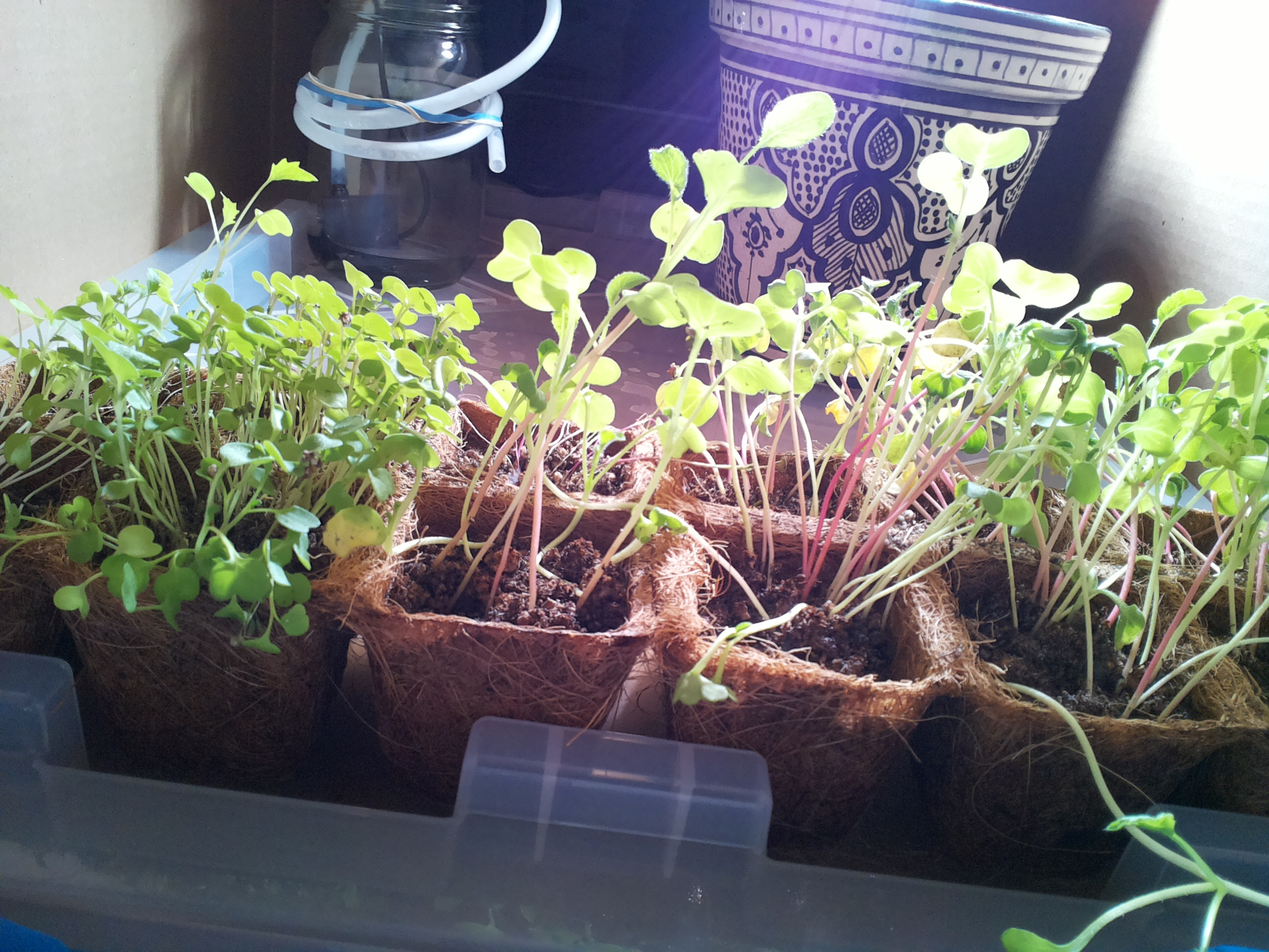
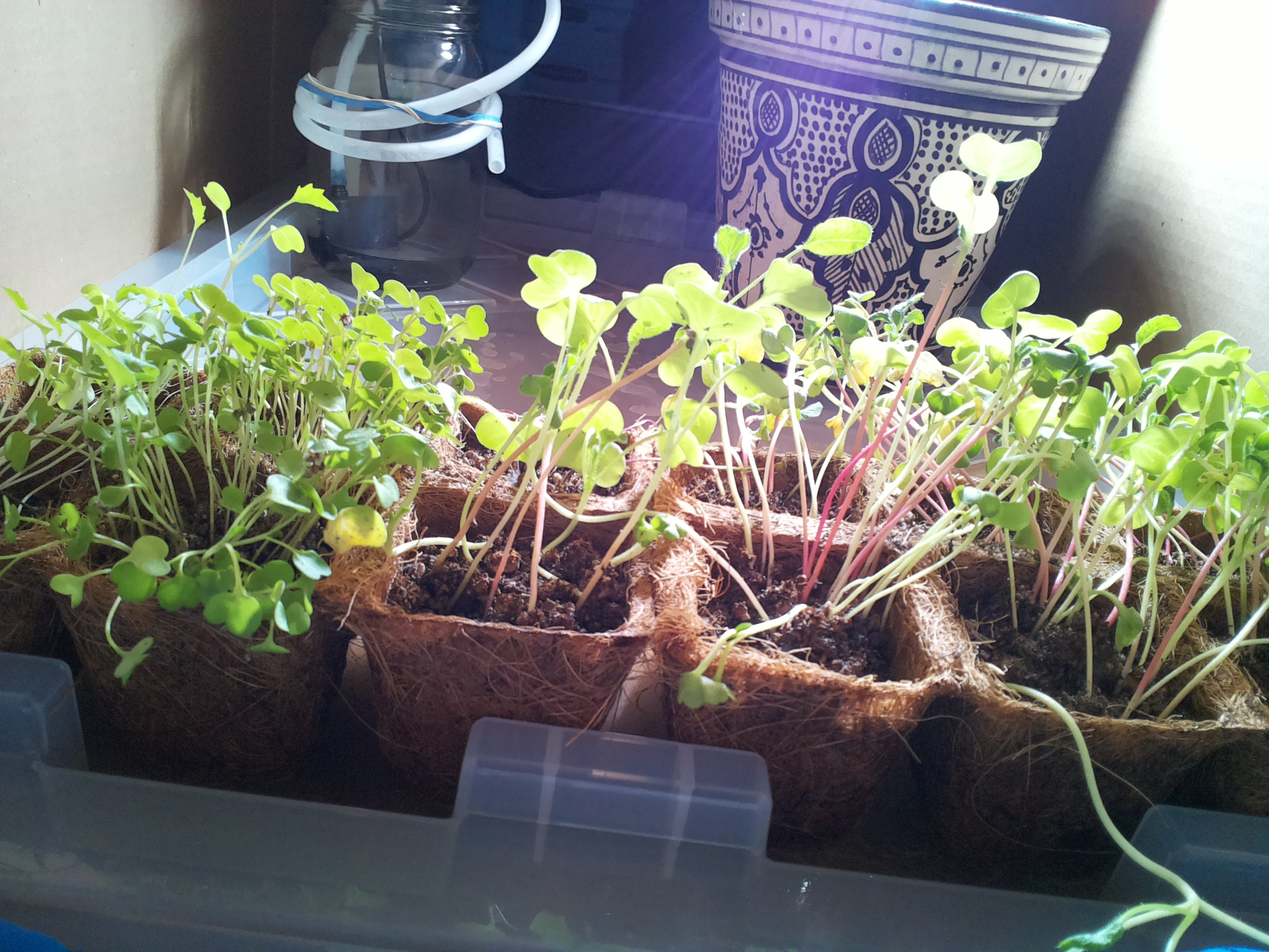
mirror sync 2026-09-12 13:10

Changed region(s): [[0.0, 0.0, 1.0, 1.0], [0.25, 0.0926, 0.4062, 0.1543], [0.2812, 0.0, 0.375, 0.0617]]

diff --git a/JOURNAL.md b/JOURNAL.md
@@ -435,3 +435,11 @@
 - Lamp: on — correct for photoperiod.
 - Watering: 4s pulse per standing order 2 (4s of 60s daily cap used; water.py OK, pump plug verified OFF after).
 - No changes to standing orders. Next: 13:07 observe-only; 19:22 pulse unless surfaces look dark. Still pending: verify lamp-sync.sh fires in logs/cron.log after the next reboot.
+
+### 2026-09-12 13:07 — midday check-in (cron, observe only)
+- Photo: seedlings vigorous in all 12 cells (day 19) — tall, leggy, cotyledons broad, turgid, and green; true leaves growing with fine hairs visible; pink stems on several (brassica-like, normal). A few yellowing older cotyledons in the middle cells (normal as true leaves take over). No wilting, mold, pests, or tipping. Tube outlet in place beside the jar over the lid (confirmed in zoom).
+- Jar: zoomed photo shows dark water through the visible glass body up near the neck — refill holding, pump body well covered.
+- Soil: visible cell surfaces dark/damp in the centers where not hidden by foliage; some drier crumbly spots; coir walls pale as usual. No dry-down alarm since the morning pulse. Bright sunlight patch across the tray.
+- Lamp: on — correct for photoperiod.
+- Watering: none (observe-only per standing order 2); 4s of 60s daily cap used. Evening 19:22 pulse planned unless surfaces look dark.
+- No changes to standing orders. Still pending: verify lamp-sync.sh fires in logs/cron.log after the next reboot.
